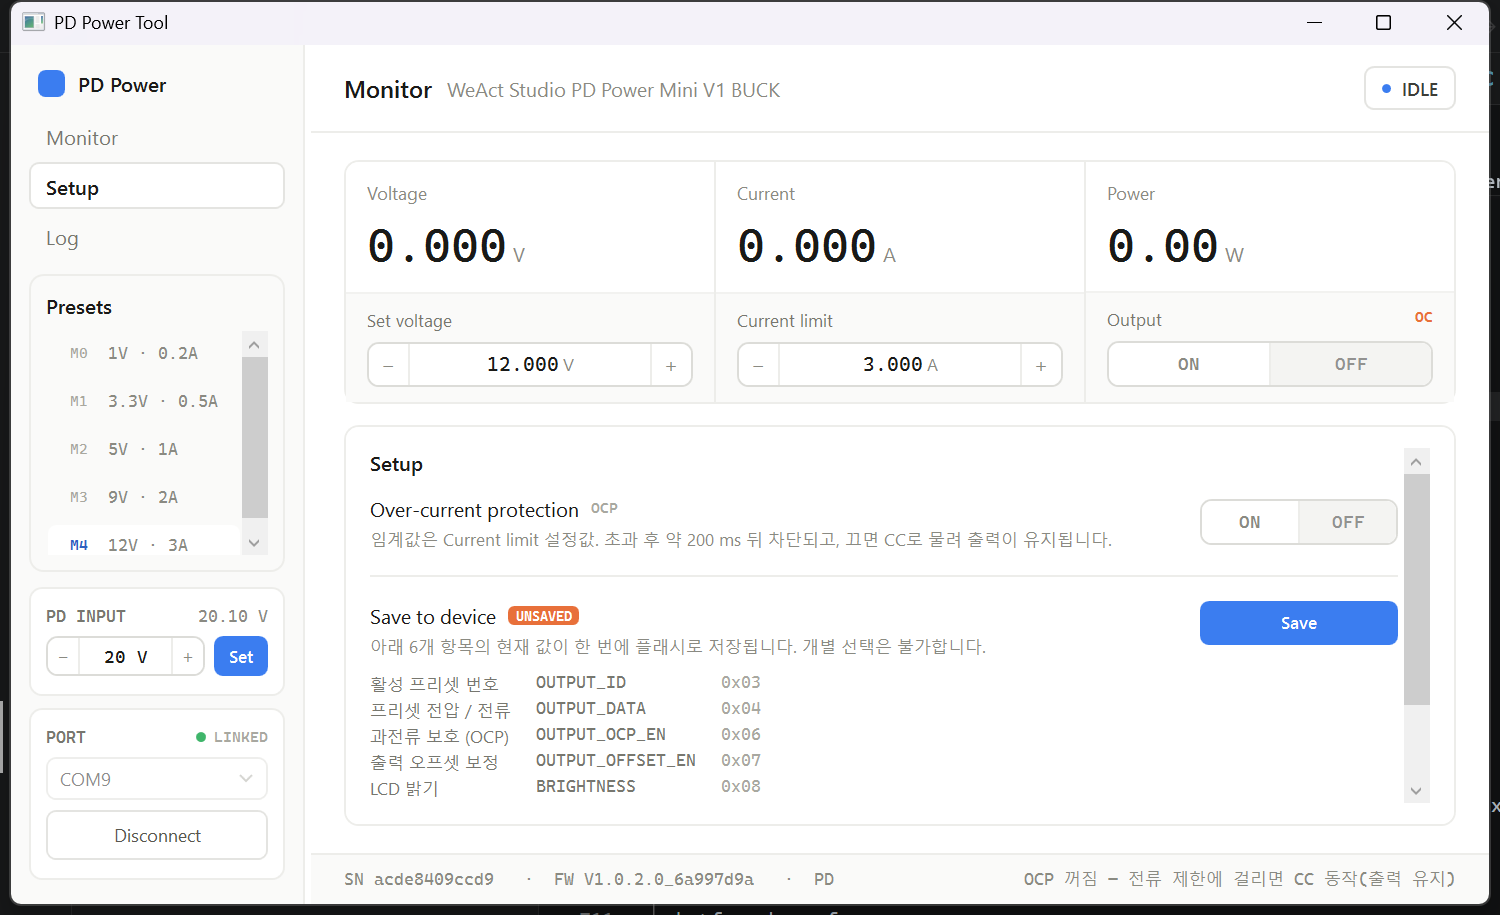
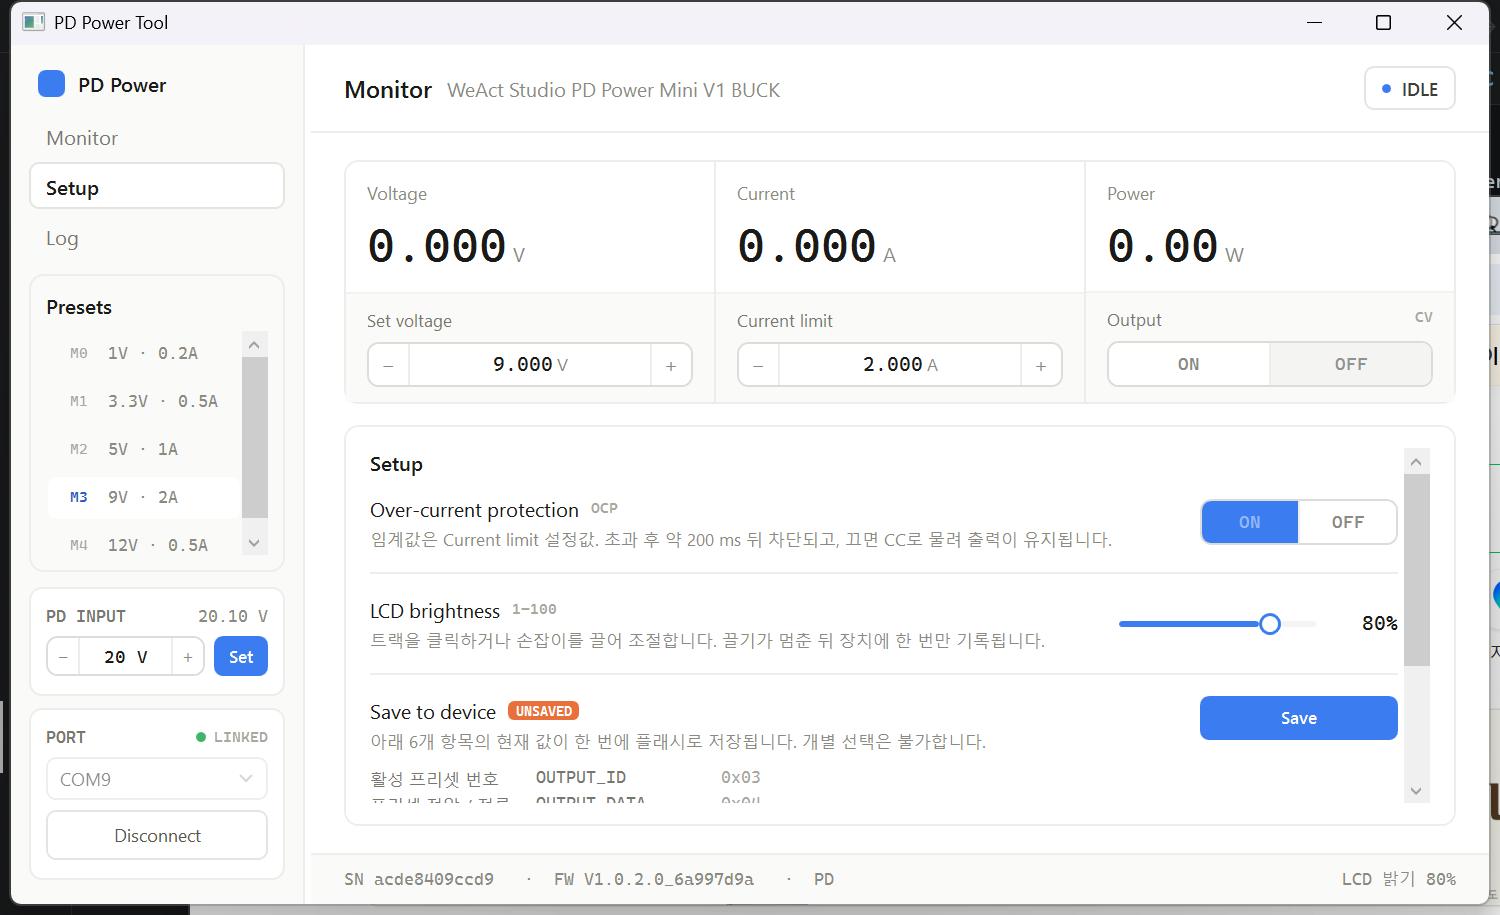
Add an LCD brightness slider to Setup
BRIGHTNESS (0x08 / 0x88) takes 1-100, so a slider is the right control. WPF's
stock Slider carries the same dated chrome that made the first UI pass look
wrong, so Theme.xaml templates it: the Track's decrease button becomes the
accent-filled portion, the increase button the sunk remainder, and the thumb a
white knob with an accent ring.

Binding the value straight through would emit a frame per pixel of drag, so the
view model coalesces changes for 250 ms and writes once. It then reads the value
back and reseats the slider behind a suppression flag, otherwise the readback
would retrigger the write.

Verified on COM9: moved to 80%, the device echoed 80, then restored to 50%.
Brightness is volatile and was not saved to flash.

diff --git a/src/PdPower.App/Themes/Theme.xaml b/src/PdPower.App/Themes/Theme.xaml
@@ -402,6 +402,89 @@
         </Setter>
     </Style>
 
+    <!-- ══ Slider: 채워진 구간 = 액센트, 나머지 = 가라앉은 면 ══ -->
+
+    <!-- 채워진 쪽 트랙. Track 의 DecreaseRepeatButton 이 좌측을 차지하므로 이걸 막대로 쓴다 -->
+    <Style x:Key="SliderTrackFill" TargetType="RepeatButton">
+        <Setter Property="Focusable" Value="False" />
+        <Setter Property="IsTabStop" Value="False" />
+        <Setter Property="Template">
+            <Setter.Value>
+                <ControlTemplate TargetType="RepeatButton">
+                    <Border Height="4" CornerRadius="2" VerticalAlignment="Center"
+                            Background="{StaticResource AccentBrush}" />
+                </ControlTemplate>
+            </Setter.Value>
+        </Setter>
+    </Style>
+
+    <Style x:Key="SliderTrackEmpty" TargetType="RepeatButton">
+        <Setter Property="Focusable" Value="False" />
+        <Setter Property="IsTabStop" Value="False" />
+        <Setter Property="Template">
+            <Setter.Value>
+                <ControlTemplate TargetType="RepeatButton">
+                    <Border Height="4" CornerRadius="2" VerticalAlignment="Center"
+                            Background="{StaticResource SurfaceSunkBrush}" />
+                </ControlTemplate>
+            </Setter.Value>
+        </Setter>
+    </Style>
+
+    <Style x:Key="SliderThumb" TargetType="Thumb">
+        <Setter Property="Width" Value="15" />
+        <Setter Property="Height" Value="15" />
+        <Setter Property="Cursor" Value="Hand" />
+        <Setter Property="Template">
+            <Setter.Value>
+                <ControlTemplate TargetType="Thumb">
+                    <Grid>
+                        <Ellipse x:Name="Knob" Fill="{StaticResource SurfaceBrush}"
+                                 Stroke="{StaticResource AccentBrush}" StrokeThickness="2" />
+                    </Grid>
+                    <ControlTemplate.Triggers>
+                        <Trigger Property="IsMouseOver" Value="True">
+                            <Setter TargetName="Knob" Property="Fill" Value="{StaticResource AccentTintBrush}" />
+                        </Trigger>
+                    </ControlTemplate.Triggers>
+                </ControlTemplate>
+            </Setter.Value>
+        </Setter>
+    </Style>
+
+    <Style x:Key="FlatSlider" TargetType="Slider">
+        <Setter Property="SmallChange" Value="1" />
+        <Setter Property="LargeChange" Value="10" />
+        <Setter Property="IsMoveToPointEnabled" Value="True" />
+        <Setter Property="Height" Value="20" />
+        <Setter Property="Template">
+            <Setter.Value>
+                <ControlTemplate TargetType="Slider">
+                    <Grid VerticalAlignment="Center" Background="Transparent">
+                        <Track x:Name="PART_Track">
+                            <Track.DecreaseRepeatButton>
+                                <RepeatButton Style="{StaticResource SliderTrackFill}"
+                                              Command="Slider.DecreaseLarge" />
+                            </Track.DecreaseRepeatButton>
+                            <Track.Thumb>
+                                <Thumb Style="{StaticResource SliderThumb}" />
+                            </Track.Thumb>
+                            <Track.IncreaseRepeatButton>
+                                <RepeatButton Style="{StaticResource SliderTrackEmpty}"
+                                              Command="Slider.IncreaseLarge" />
+                            </Track.IncreaseRepeatButton>
+                        </Track>
+                    </Grid>
+                    <ControlTemplate.Triggers>
+                        <Trigger Property="IsEnabled" Value="False">
+                            <Setter Property="Opacity" Value="0.45" />
+                        </Trigger>
+                    </ControlTemplate.Triggers>
+                </ControlTemplate>
+            </Setter.Value>
+        </Setter>
+    </Style>
+
     <!-- ══ CheckBox: 플랫 ══ -->
     <Style x:Key="FlatCheckBox" TargetType="CheckBox">
         <Setter Property="FontSize" Value="11" />

diff --git a/src/PdPower.App/MainWindow.xaml b/src/PdPower.App/MainWindow.xaml
@@ -677,7 +677,41 @@
                             </Border>
                         </Grid>
 
-                        <Rectangle Height="1" Fill="{StaticResource HairlineBrush}" Margin="0,16" />
+                        <Rectangle Height="1" Fill="{StaticResource HairlineBrush}" Margin="0,14" />
+
+                        <!-- LCD 밝기 (BRIGHTNESS 0x08 / 0x88) -->
+                        <Grid>
+                            <Grid.ColumnDefinitions>
+                                <ColumnDefinition Width="*" />
+                                <ColumnDefinition Width="Auto" />
+                            </Grid.ColumnDefinitions>
+
+                            <StackPanel Grid.Column="0" Margin="0,0,20,0" VerticalAlignment="Center">
+                                <StackPanel Orientation="Horizontal">
+                                    <TextBlock Text="LCD brightness" FontSize="13"
+                                               Foreground="{StaticResource TextBrush}" />
+                                    <TextBlock Text="1–100" Style="{StaticResource MicroMono}" Margin="8,0,0,0"
+                                               VerticalAlignment="Center" />
+                                </StackPanel>
+                                <TextBlock Margin="0,4,0,0" FontSize="11" TextWrapping="Wrap"
+                                           Foreground="{StaticResource TextTertiaryBrush}"
+                                           Text="트랙을 클릭하거나 손잡이를 끌어 조절합니다. 끌기가 멈춘 뒤 장치에 한 번만 기록됩니다." />
+                            </StackPanel>
+
+                            <StackPanel Grid.Column="1" Orientation="Horizontal" VerticalAlignment="Center">
+                                <Slider Width="132" Style="{StaticResource FlatSlider}"
+                                        AutomationProperties.AutomationId="BrightnessSlider"
+                                        Minimum="1" Maximum="100"
+                                        IsEnabled="{Binding IsConnected}"
+                                        Value="{Binding BrightnessPercent, Mode=TwoWay}" />
+                                <TextBlock Width="44" Margin="10,0,0,0" TextAlignment="Right"
+                                           VerticalAlignment="Center"
+                                           FontFamily="{StaticResource MonoFont}" FontSize="13"
+                                           Text="{Binding BrightnessPercent, StringFormat={}{0}%}" />
+                            </StackPanel>
+                        </Grid>
+
+                        <Rectangle Height="1" Fill="{StaticResource HairlineBrush}" Margin="0,14" />
 
                         <!-- 설정 저장 (SYSTEM_CONFIG_SAVE 0x44) -->
                         <Grid>

diff --git a/src/PdPower.App/ViewModels/MainViewModel.cs b/src/PdPower.App/ViewModels/MainViewModel.cs
@@ -20,10 +20,15 @@ public sealed class MainViewModel : ObservableObject, IDisposable
 
     private static readonly TimeSpan PollInterval = TimeSpan.FromMilliseconds(250);
 
+    /// <summary>슬라이더 드래그가 멈춘 뒤 실제로 밝기를 쓰기까지 기다리는 시간.</summary>
+    private static readonly TimeSpan BrightnessWriteDelay = TimeSpan.FromMilliseconds(250);
+
     private readonly DispatcherTimer _pollTimer;
+    private readonly DispatcherTimer _brightnessDebounce;
     private readonly Dispatcher _dispatcher = Dispatcher.CurrentDispatcher;
     private PdPowerDevice? _device;
     private bool _polling;
+    private bool _suppressBrightnessWrite;
 
     public MainViewModel()
     {
@@ -48,6 +53,20 @@ public sealed class MainViewModel : ObservableObject, IDisposable
 
         _pollTimer = new DispatcherTimer { Interval = PollInterval };
         _pollTimer.Tick += async (_, _) => await PollAsync().ConfigureAwait(true);
+
+        _brightnessDebounce = new DispatcherTimer { Interval = BrightnessWriteDelay };
+        _brightnessDebounce.Tick += async (_, _) =>
+        {
+            _brightnessDebounce.Stop();
+            try
+            {
+                await ApplyBrightnessAsync().ConfigureAwait(true);
+            }
+            catch (Exception ex)
+            {
+                ReportError(ex);
+            }
+        };
 
         RefreshPorts();
     }
@@ -190,6 +209,32 @@ public sealed class MainViewModel : ObservableObject, IDisposable
         private set { if (SetField(ref _isOcpEnabled, value)) RaiseCommandStates(); }
     }
 
+    // ── Setup: LCD 밝기 ──────────────────────────────────────────────────
+
+    public const int MinBrightness = 1;
+    public const int MaxBrightness = 100;
+
+    /// <summary>
+    /// LCD 밝기(%). 슬라이더를 끌면 값이 연속으로 바뀌므로 <see cref="BrightnessWriteDelay"/>
+    /// 만큼 모아서 한 번만 장치에 쓴다.
+    /// </summary>
+    private int _brightnessPercent = 50;
+    public int BrightnessPercent
+    {
+        get => _brightnessPercent;
+        set
+        {
+            int clamped = Math.Clamp(value, MinBrightness, MaxBrightness);
+            if (!SetField(ref _brightnessPercent, clamped)) return;
+
+            // 장치에서 읽어와 채우는 중이면 되쓰지 않는다
+            if (_suppressBrightnessWrite || _device is null) return;
+
+            _brightnessDebounce.Stop();
+            _brightnessDebounce.Start();
+        }
+    }
+
     // ── Setup: 설정 저장 ─────────────────────────────────────────────────
 
     /// <summary>
@@ -307,6 +352,7 @@ public sealed class MainViewModel : ObservableObject, IDisposable
     public void Disconnect()
     {
         _pollTimer.Stop();
+        _brightnessDebounce.Stop();
         _device?.Dispose();
         _device = null;
 
@@ -339,6 +385,7 @@ public sealed class MainViewModel : ObservableObject, IDisposable
         SetAmps = active.Amps;
 
         IsOcpEnabled = await _device.ReadOcpEnabledAsync().ConfigureAwait(true);
+        await LoadBrightnessAsync().ConfigureAwait(true);
 
         // 방금 읽어온 값이 곧 장치의 현재 상태 — 앱이 바꾼 건 아직 없다
         HasUnsavedChanges = false;
@@ -412,6 +459,34 @@ public sealed class MainViewModel : ObservableObject, IDisposable
         Presets[ActivePresetId].Update(volts, amps, isActive: true);
         HasUnsavedChanges = true;
         StatusMessage = $"M{ActivePresetId} → {volts:F3} V / {amps:F3} A (저장하지 않으면 휘발)";
+    }
+
+    /// <summary>디바운스가 끝난 뒤 실제 밝기 쓰기. 되읽은 값으로 슬라이더를 맞춘다.</summary>
+    private async Task ApplyBrightnessAsync()
+    {
+        if (_device is null) return;
+
+        await _device.SetBrightnessAsync(BrightnessPercent).ConfigureAwait(true);
+        await LoadBrightnessAsync().ConfigureAwait(true);
+        HasUnsavedChanges = true;
+        StatusMessage = $"LCD 밝기 {BrightnessPercent}%";
+    }
+
+    /// <summary>장치 값으로 슬라이더를 채운다. 되쓰기 루프가 생기지 않게 억제 플래그를 세운다.</summary>
+    private async Task LoadBrightnessAsync()
+    {
+        if (_device is null) return;
+
+        int percent = await _device.ReadBrightnessAsync().ConfigureAwait(true);
+        _suppressBrightnessWrite = true;
+        try
+        {
+            BrightnessPercent = percent;
+        }
+        finally
+        {
+            _suppressBrightnessWrite = false;
+        }
     }
 
     /// <summary>OCP를 바꾸고 장치에서 되읽어 확인한다 — 쓰기만 하면 실제 반영 여부를 알 수 없다.</summary>

diff --git a/README.md b/README.md
@@ -213,6 +213,9 @@ dotnet run --project src/PdPower.App
 - 요청 직전에 수신 버퍼를 비워(`DiscardInBuffer`) 프레임 동기를 잡는다.
 - `PdPowerDevice.FrameExchanged` 이벤트는 **스레드 풀에서 발생**한다. UI 컬렉션을 갱신하려면
   구독자가 디스패처로 마샬링해야 한다 (안 하면 `NotSupportedException`).
+- 슬라이더처럼 값이 연속으로 바뀌는 컨트롤은 **디바운스가 필수**다. 밝기를 그대로 바인딩하면
+  드래그 한 번에 수백 개 프레임이 나간다. `MainViewModel` 은 250 ms 모아서 한 번만 쓴다.
+  장치에서 되읽어 슬라이더를 맞출 때는 억제 플래그로 쓰기 루프를 끊는다.
 - `READ_INPUT_STATE`(0x8A)는 PD Power Mini V1 펌웨어 **v1.0.2.0 이상**에서만 지원 —
   실패를 정상 흐름으로 처리한다.
 
@@ -235,8 +238,8 @@ dotnet run --project src/PdPower.App
   - [x] 스테퍼 (−/+ 버튼, 휠 ±1 / Ctrl+휠 ±0.1)
   - [x] 듀얼축 Trend 차트 + 오토스케일, Clear/Hide
   - [x] Log 화면 (원시 프레임 트레이스 토글)
-  - [x] Setup 화면 — OCP on/off (되읽기 확인), 설정 저장(`0x44`) + 미저장 표시
-  - [ ] Setup 나머지: 오프셋 보정, 밝기, 방전
+  - [x] Setup 화면 — OCP on/off, LCD 밝기 슬라이더, 설정 저장(`0x44`) + 미저장 표시
+  - [ ] Setup 나머지: 오프셋 보정, 방전(읽기 명령 없음에 유의)
   - [ ] 미연결 시 CV 배지가 뜨는 문제 (기본값이 `CV` 라 장치 없이도 표시됨)
   - [ ] 레일 56 px 아이콘 모드 접힘
   - [ ] 프리셋 더블클릭 인라인 편집
